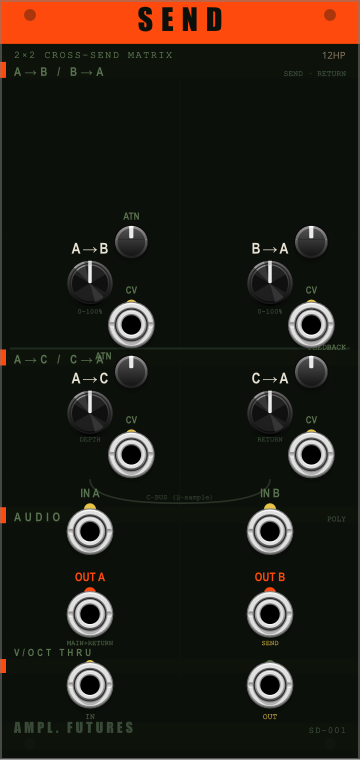
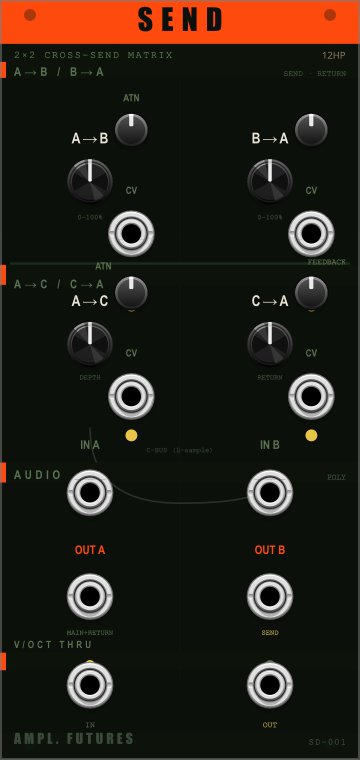
fix(panels): reflow Send, unstack DroneClone's label bands
Send had an 81px gap under its header and rows crammed into the lower half.
Reflowed about the bottom I/O row so the four control rows use the full height.

DroneClone: three range hints sat in the same 5px band as the row below's
control labels, so both were unreadable. 1-8 VOC duplicated MASS's tooltip
exactly; EDGE and LOW BODY were overdrawn descriptors. Removed. DECAY and
CHOKE AMT were sitting on their own knobs.

diff --git a/src/Send.cpp b/src/Send.cpp
@@ -129,32 +129,32 @@ struct SendWidget : ModuleWidget {
 		// Satellites at +7mm to the right of each knob
 
 		// A→B and B→A (top pair)
-		addParam(createParamCentered<RoundSmallBlackKnob>(mm2px(Vec(15.24f, 48.f)), module, Send::A_TO_B_PARAM));
-		addParam(createParamCentered<Trimpot>(            mm2px(Vec(22.24f, 41.f)), module, Send::A_TO_B_ATTEN_PARAM));
-		addInput(createInputCentered<PJ301MPort>(         mm2px(Vec(22.24f, 55.f)), module, Send::A_TO_B_CV_INPUT));
+		addParam(createParamCentered<RoundSmallBlackKnob>(mm2px(Vec(15.24f,30.8f)), module, Send::A_TO_B_PARAM));
+		addParam(createParamCentered<Trimpot>(            mm2px(Vec(22.24f,22.03f)), module, Send::A_TO_B_ATTEN_PARAM));
+		addInput(createInputCentered<PJ301MPort>(         mm2px(Vec(22.24f,39.57f)), module, Send::A_TO_B_CV_INPUT));
 
-		addParam(createParamCentered<RoundSmallBlackKnob>(mm2px(Vec(45.72f, 48.f)), module, Send::B_TO_A_PARAM));
-		addParam(createParamCentered<Trimpot>(            mm2px(Vec(52.72f, 41.f)), module, Send::B_TO_A_ATTEN_PARAM));
-		addInput(createInputCentered<PJ301MPort>(         mm2px(Vec(52.72f, 55.f)), module, Send::B_TO_A_CV_INPUT));
+		addParam(createParamCentered<RoundSmallBlackKnob>(mm2px(Vec(45.72f,30.8f)), module, Send::B_TO_A_PARAM));
+		addParam(createParamCentered<Trimpot>(            mm2px(Vec(52.72f,22.03f)), module, Send::B_TO_A_ATTEN_PARAM));
+		addInput(createInputCentered<PJ301MPort>(         mm2px(Vec(52.72f,39.57f)), module, Send::B_TO_A_CV_INPUT));
 
 		// A→C and C→A (bottom pair)
-		addParam(createParamCentered<RoundSmallBlackKnob>(mm2px(Vec(15.24f, 70.f)), module, Send::A_TO_C_PARAM));
-		addParam(createParamCentered<Trimpot>(            mm2px(Vec(22.24f, 63.f)), module, Send::A_TO_C_ATTEN_PARAM));
-		addInput(createInputCentered<PJ301MPort>(         mm2px(Vec(22.24f, 77.f)), module, Send::A_TO_C_CV_INPUT));
+		addParam(createParamCentered<RoundSmallBlackKnob>(mm2px(Vec(15.24f,58.36f)), module, Send::A_TO_C_PARAM));
+		addParam(createParamCentered<Trimpot>(            mm2px(Vec(22.24f,49.59f)), module, Send::A_TO_C_ATTEN_PARAM));
+		addInput(createInputCentered<PJ301MPort>(         mm2px(Vec(22.24f,67.13f)), module, Send::A_TO_C_CV_INPUT));
 
-		addParam(createParamCentered<RoundSmallBlackKnob>(mm2px(Vec(45.72f, 70.f)), module, Send::C_TO_A_PARAM));
-		addParam(createParamCentered<Trimpot>(            mm2px(Vec(52.72f, 63.f)), module, Send::C_TO_A_ATTEN_PARAM));
-		addInput(createInputCentered<PJ301MPort>(         mm2px(Vec(52.72f, 77.f)), module, Send::C_TO_A_CV_INPUT));
+		addParam(createParamCentered<RoundSmallBlackKnob>(mm2px(Vec(45.72f,58.36f)), module, Send::C_TO_A_PARAM));
+		addParam(createParamCentered<Trimpot>(            mm2px(Vec(52.72f,49.59f)), module, Send::C_TO_A_ATTEN_PARAM));
+		addInput(createInputCentered<PJ301MPort>(         mm2px(Vec(52.72f,67.13f)), module, Send::C_TO_A_CV_INPUT));
 
 		// Audio I/O
-		addInput(createInputCentered<PJ301MPort>( mm2px(Vec(15.24f, 90.f)), module, Send::IN_A_INPUT));
-		addInput(createInputCentered<PJ301MPort>( mm2px(Vec(45.72f, 90.f)), module, Send::IN_B_INPUT));
-		addOutput(createOutputCentered<PJ301MPort>(mm2px(Vec(15.24f, 104.f)), module, Send::OUT_A_OUTPUT));
-		addOutput(createOutputCentered<PJ301MPort>(mm2px(Vec(45.72f, 104.f)), module, Send::OUT_B_OUTPUT));
+		addInput(createInputCentered<PJ301MPort>( mm2px(Vec(15.24f,83.42f)), module, Send::IN_A_INPUT));
+		addInput(createInputCentered<PJ301MPort>( mm2px(Vec(45.72f,83.42f)), module, Send::IN_B_INPUT));
+		addOutput(createOutputCentered<PJ301MPort>(mm2px(Vec(15.24f,101.f)), module, Send::OUT_A_OUTPUT));
+		addOutput(createOutputCentered<PJ301MPort>(mm2px(Vec(45.72f,101.f)), module, Send::OUT_B_OUTPUT));
 
 		// V/OCT thru
-		addInput(createInputCentered<PJ301MPort>( mm2px(Vec(15.24f, 116.f)), module, Send::VOCT_INPUT));
-		addOutput(createOutputCentered<PJ301MPort>(mm2px(Vec(45.72f, 116.f)), module, Send::VOCT_OUTPUT));
+		addInput(createInputCentered<PJ301MPort>( mm2px(Vec(15.24f,116.f)), module, Send::VOCT_INPUT));
+		addOutput(createOutputCentered<PJ301MPort>(mm2px(Vec(45.72f,116.f)), module, Send::VOCT_OUTPUT));
 	}
 };
 
